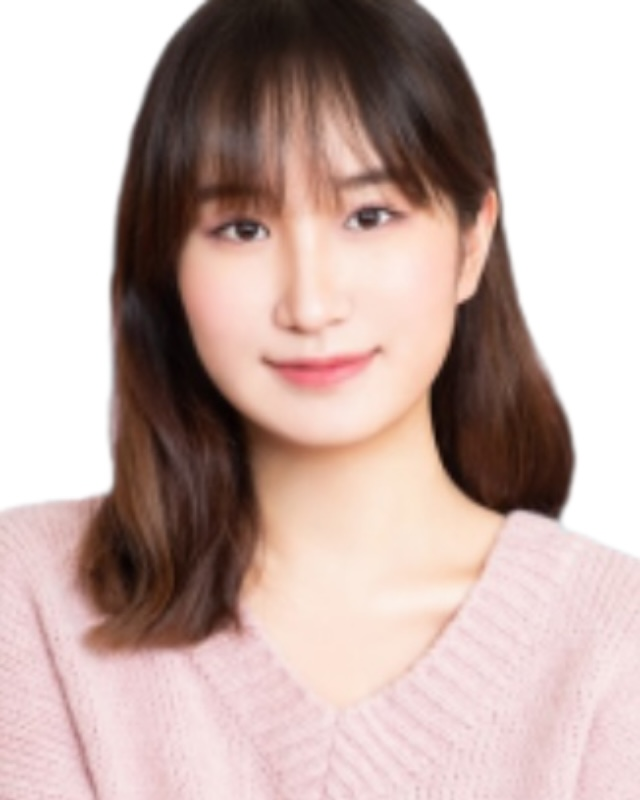
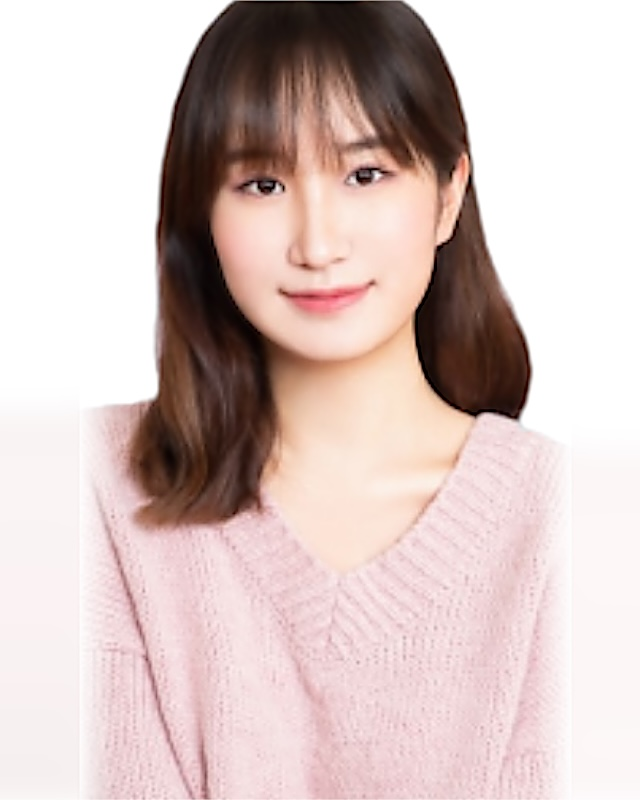
문지현 사진 자연스럽게(머리 위 프레임 맞춤·선명도), 김호랑 얼굴·몸 크기 줄임

diff --git a/index.html b/index.html
@@ -610,7 +610,7 @@ const T=[
 ];
 const list=document.getElementById('tlist');
 /* 사진: img/teachers/이름.jpg 를 PHOTO 에 적으면 사진, 없으면 성 한 글자 */
-const PHOTO={};['류성훈','이태형','장의순','김호랑','권현석','정민','홍진수','최정윤','이예섭','정지만','김현중','이창환','최현재','김경한','문지현','박정은'].forEach(n=>PHOTO[n]='img/teachers/'+n+'.jpg?v=1123c');
+const PHOTO={};['류성훈','이태형','장의순','김호랑','권현석','정민','홍진수','최정윤','이예섭','정지만','김현중','이창환','최현재','김경한','문지현','박정은'].forEach(n=>PHOTO[n]='img/teachers/'+n+'.jpg?v=1123d');
 /* 줄 순서: 1줄 국어 · 2줄 수학 · 3줄 영어 · 4줄 탐구 · 논술 (11/19 사장님 요청)
    같은 과목 안에서는 (탐구는 통합과학·통합사회·사탐 순으로 묶고) 사진 있는 강사 먼저, 나머지는 배열 순서 그대로 */
 const SUBJ=['국어','수학','영어','탐구','논술'];
